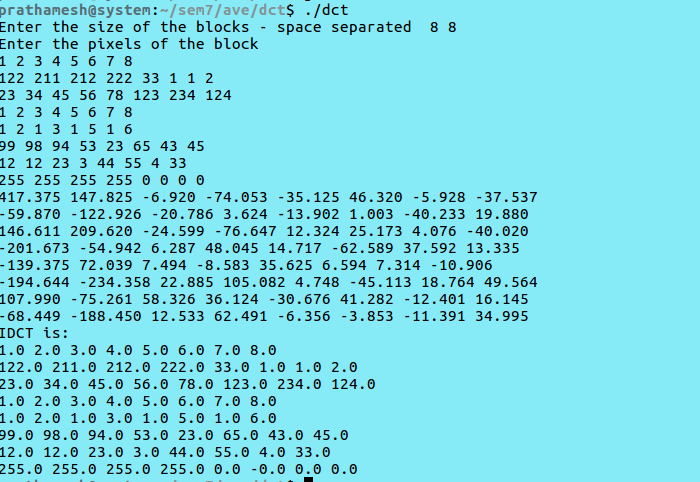
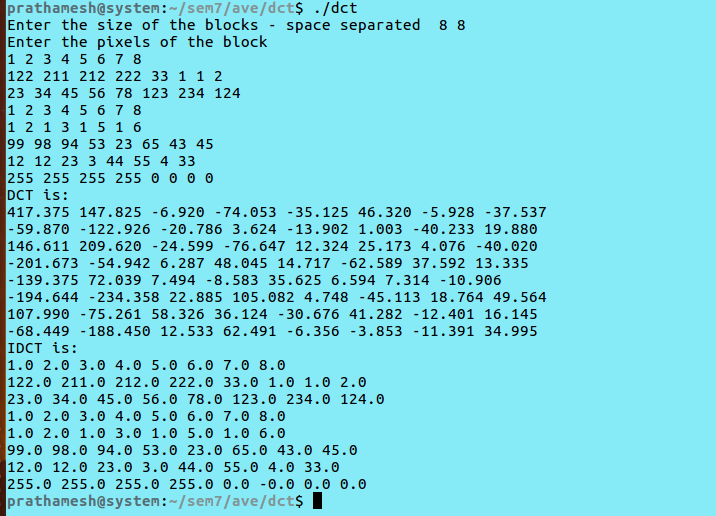
edit snaps and print line

Changed region(s): [[0.0, 0.0, 0.78, 1.0]]

diff --git a/dct.c b/dct.c
@@ -53,7 +53,7 @@ int main(){
   for(i = 0;i < m;i++)
     for(j = 0;j < n;j++)
       scanf(" %f",&in[i][j]);
-
+  printf("DCT is: \n");
   for(i = 0;i < m;i++){
     for(j = 0;j < n;j++){
       for(u = 0;u < m;u++)
